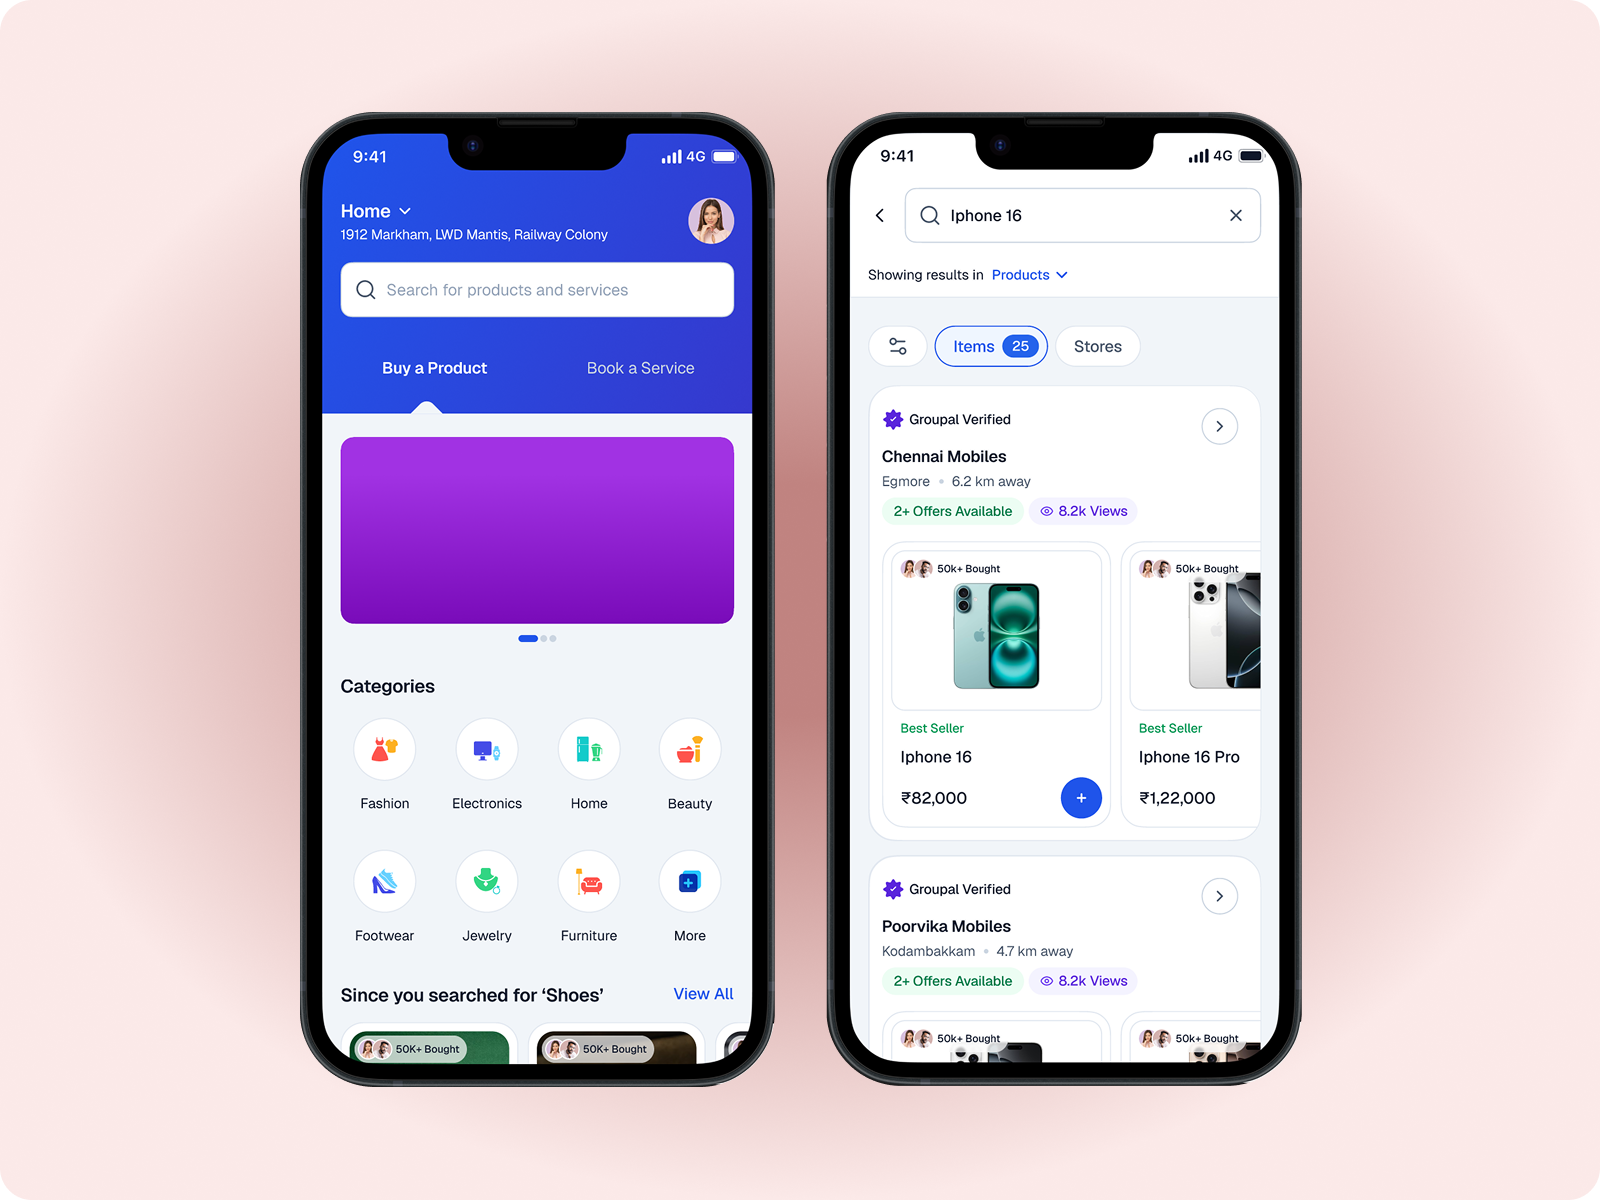
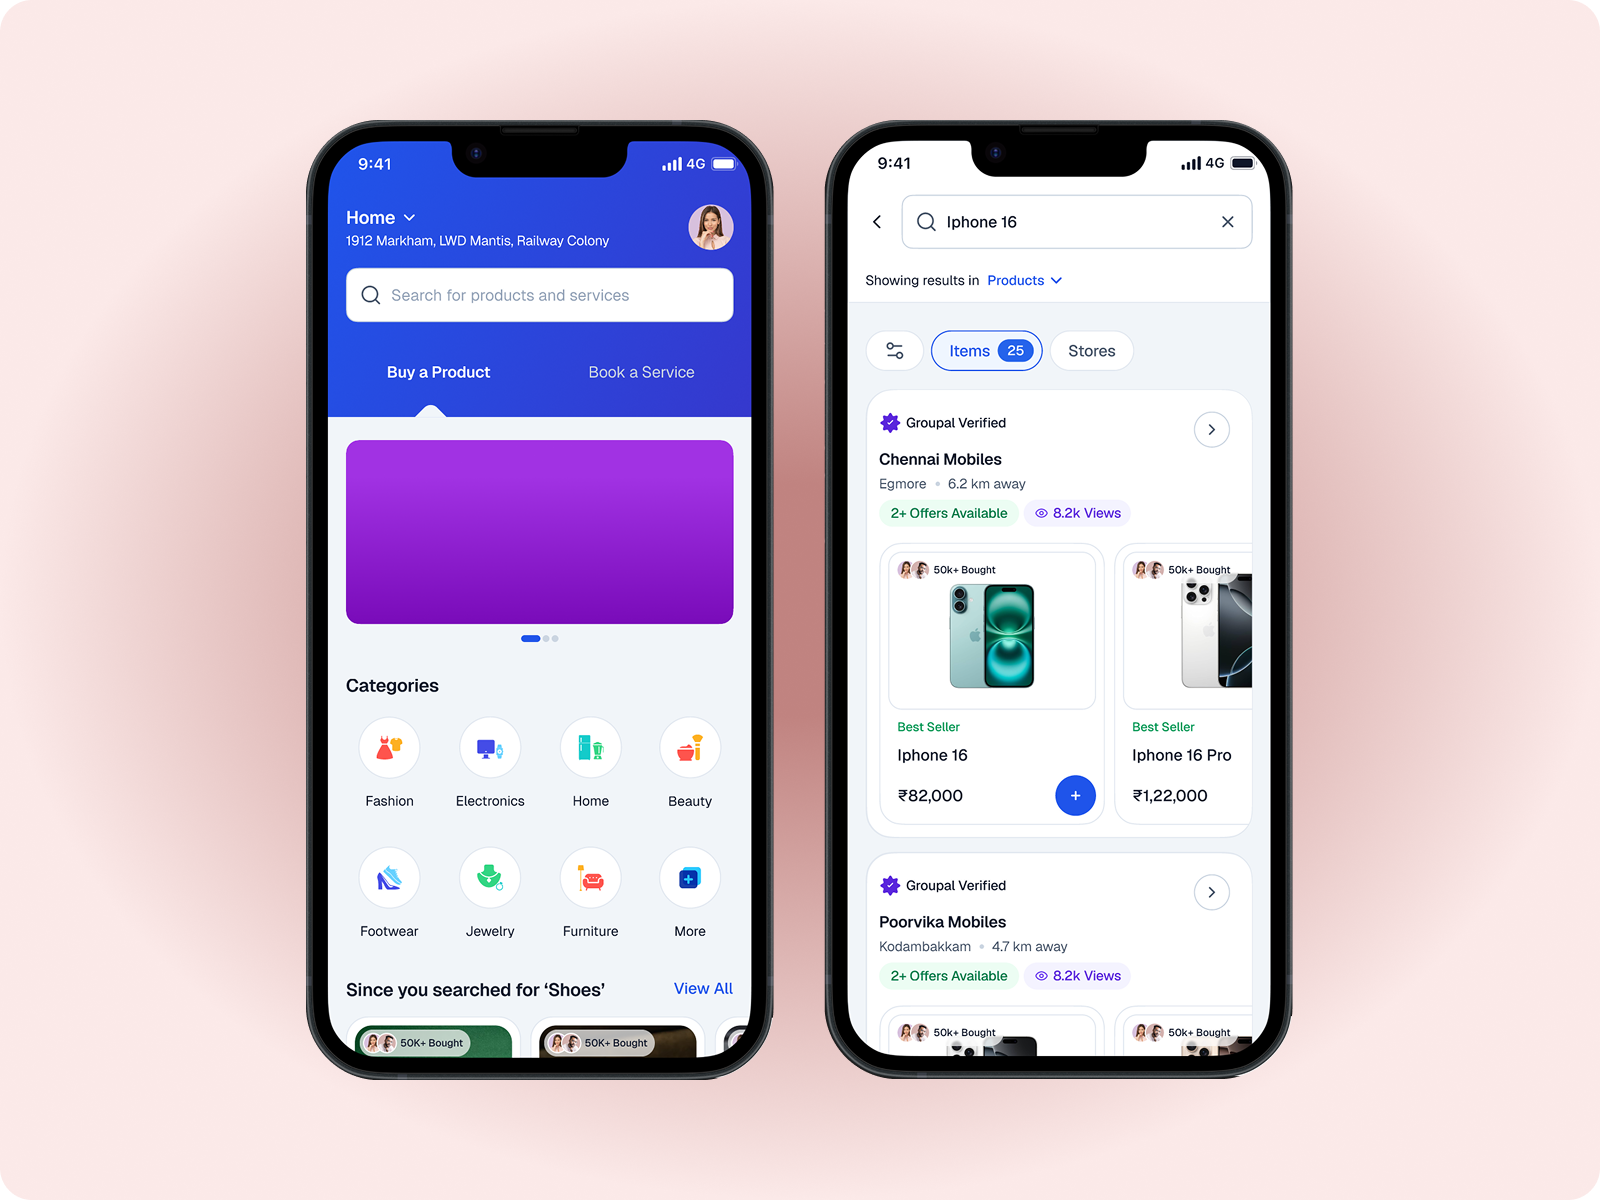
changes

diff --git a/assets/styles.css b/assets/styles.css
@@ -222,17 +222,27 @@ body{
   align-items:center;
 }
 
+/* Corners are baked into the source PNGs, so we never crop them —
+   object-fit:contain scales each image down to fit a shared box
+   height without slicing into the baked-in rounded corners.
+   The fixed aspect-ratio is what actually restricts both cards
+   to the same size regardless of each PNG's native dimensions. */
 .project__media{
-  border-radius:var(--radius-lg); /* safety clip only, in case a PNG has hard square corners */
-  overflow:hidden;
+  aspect-ratio: 4 / 3;
+  display:flex;
+  align-items:center;
+  justify-content:center;
+  min-width:0;
   will-change:transform;
   transition:transform var(--dur-med) var(--ease-out);
 }
 
 .project__img{
   width:100%;
-  height:auto;
+  height:100%;
   display:block;
+  object-fit:contain;
+  object-position:center;
 }
 
 @media (hover:hover) and (pointer:fine){
@@ -295,14 +305,24 @@ body{
   cursor:default;
 }
 
-/* -- two-up grid -- */
+/* -- two-up grid --
+   minmax(0, 1fr) instead of bare 1fr: by default a grid track's
+   minimum width is "auto", which respects the min-content size of
+   whatever's inside it. If one card's heading/copy needs more
+   intrinsic width than the other, that column silently grows past
+   its 50% share and the other shrinks — which is what was making
+   the two project cards render at visibly different sizes even
+   though "1fr 1fr" looks like it should split evenly. Pinning the
+   track minimum to 0 forces a true equal split regardless of
+   content length. */
 .project-grid{
   display:grid;
-  grid-template-columns:1fr 1fr;
+  grid-template-columns:minmax(0, 1fr) minmax(0, 1fr);
   gap:clamp(28px, 3vw, 44px);
 }
 .project--card{
   display:flex; flex-direction:column; gap:24px;
+  min-width:0; /* allow the card to actually shrink to its grid track */
 }
 
 /* staggered entrance delays */
